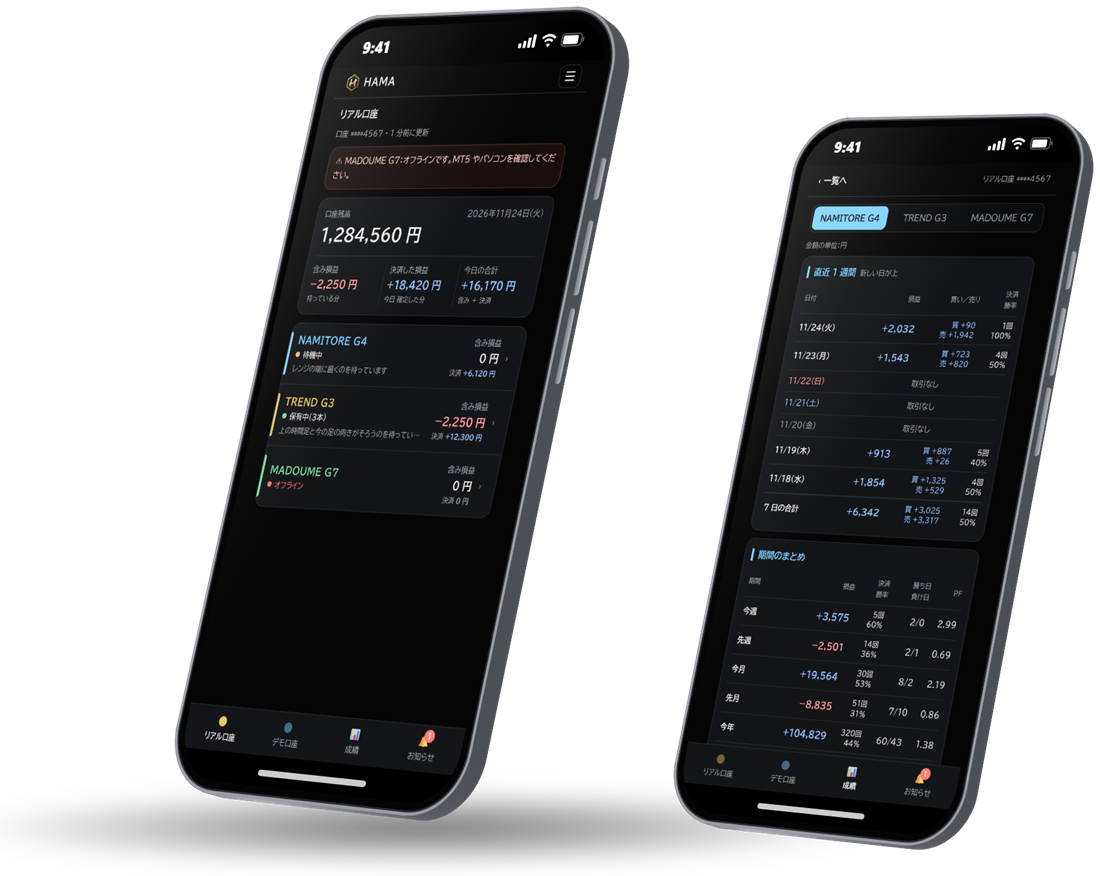
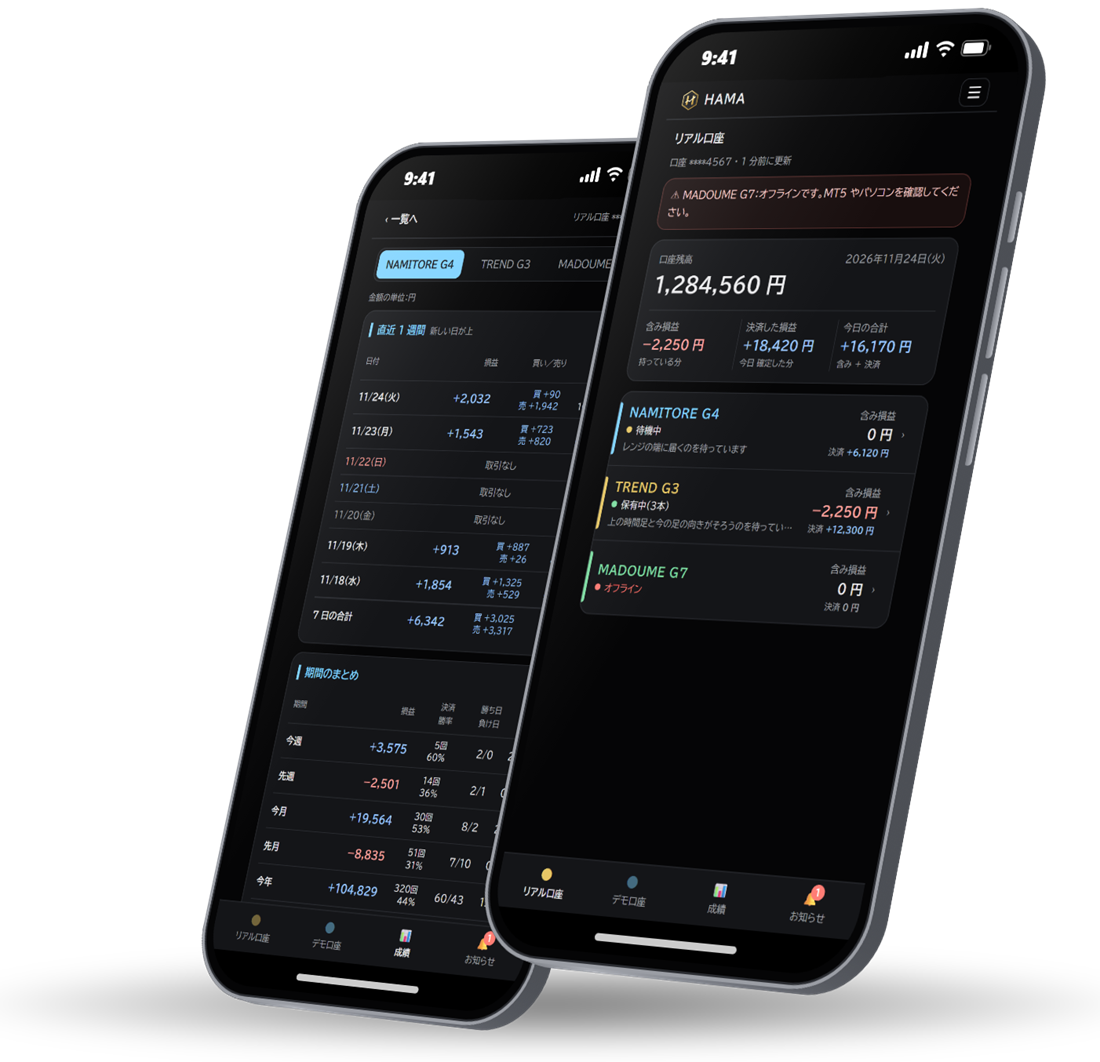
REMOTE の iPhone の絵: 小さい方を左、大きい方を右に

diff --git a/index.html b/index.html
@@ -185,7 +185,7 @@
      <p class="hs-desc">EA のようすと損益を、外出先からスマホで。<br>ロットの量の切り替えもできて、<br>EA が止まったら、お知らせで知らせます。</p>
      <span class="hs-more">VIEW MORE →</span>
     </div>
-    <div class="hs-phones"><img src="img/remote_phones_r.png" alt="HAMA REMOTE の画面のイメージ（架空の数値）"></div>
+    <div class="hs-phones"><img src="img/remote_phones_r.png?v=20261125b" alt="HAMA REMOTE の画面のイメージ（架空の数値）"></div>
    </div>
   </a>
  </div>
@@ -278,7 +278,7 @@
   <p class="sub">HAMA の EA は、外出先からスマホで、ようすを確かめられます。</p>
   <div class="cards rows">
     <a class="card ea-remote" href="app.html">
-      <div class="img"><img src="img/remote_phones_r.png" alt="HAMA REMOTE の画面のイメージ（架空の数値）" loading="lazy"></div>
+      <div class="img"><img src="img/remote_phones_r.png?v=20261125b" alt="HAMA REMOTE の画面のイメージ（架空の数値）" loading="lazy"></div>
       <div class="body">
         <span class="nick">スマホで見る（すべての EA 共通）</span>
         <h3>HAMA <span style="color:#ff4f9a">REMOTE</span></h3>
